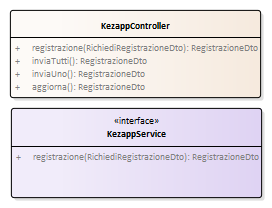
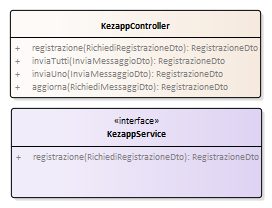
Aggiornato UML

Changed region(s): [[0.2353, 0.2596, 0.8529, 0.4615]]

diff --git a/uml/EARoot/EA2/EA13.htm b/uml/EARoot/EA2/EA13.htm
@@ -151,7 +151,26 @@ function nameClassifier(name, separator)
 			<tr>
 				<td width="100%" class="TableRow">
 					<i>Public</i><br />
-					<strong>inviaTutti</strong>():<a href="../EA1/EA7.htm">RegistrazioneDto</a>
+					<strong>inviaTutti</strong>(					<a href="#" onclick="parent.toggleData('param{2BB40957-E321-4f37-BE61-5E2BA5E4FF3D}')" style="text-decoration: none; color: #000000;"><img src="../../images/plus03.gif" align="absmiddle" id="param{2BB40957-E321-4f37-BE61-5E2BA5E4FF3D}" border="0" />dto: InviaMessaggioDto</a>, 
+					<table border="0" cellspacing="0" cellpadding="0" class="Table" style="padding: 4px 18px;">
+						<tr id="param{2BB40957-E321-4f37-BE61-5E2BA5E4FF3D}00" style="display: none;">
+							<td width="50"><strong>Default:</strong></td>
+							<td></td>
+						</tr>
+						<tr id="param{2BB40957-E321-4f37-BE61-5E2BA5E4FF3D}01" style="display: none;">
+							<td width="50"><strong>Kind:</strong></td>
+							<td>in</td>
+						</tr>
+						<tr id="param{2BB40957-E321-4f37-BE61-5E2BA5E4FF3D}02" style="display: none;">
+							<td width="50"><strong>Stereotype: </strong></td>
+							<td></td>
+						</tr>
+						<tr id="param{2BB40957-E321-4f37-BE61-5E2BA5E4FF3D}03" style="display: none;">
+							<td width="50"></td>
+							<td></td>
+						</tr>
+					</table>
+):<a href="../EA1/EA7.htm">RegistrazioneDto</a>
 				</td>
 			</tr>
 			<tr>
@@ -175,7 +194,26 @@ function nameClassifier(name, separator)
 			<tr>
 				<td width="100%" class="TableRow">
 					<i>Public</i><br />
-					<strong>inviaUno</strong>():<a href="../EA1/EA7.htm">RegistrazioneDto</a>
+					<strong>inviaUno</strong>(					<a href="#" onclick="parent.toggleData('param{B04655F5-E1A8-45ac-B7CD-207F6E36C854}')" style="text-decoration: none; color: #000000;"><img src="../../images/plus03.gif" align="absmiddle" id="param{B04655F5-E1A8-45ac-B7CD-207F6E36C854}" border="0" />dto: InviaMessaggioDto</a>, 
+					<table border="0" cellspacing="0" cellpadding="0" class="Table" style="padding: 4px 18px;">
+						<tr id="param{B04655F5-E1A8-45ac-B7CD-207F6E36C854}00" style="display: none;">
+							<td width="50"><strong>Default:</strong></td>
+							<td></td>
+						</tr>
+						<tr id="param{B04655F5-E1A8-45ac-B7CD-207F6E36C854}01" style="display: none;">
+							<td width="50"><strong>Kind:</strong></td>
+							<td>in</td>
+						</tr>
+						<tr id="param{B04655F5-E1A8-45ac-B7CD-207F6E36C854}02" style="display: none;">
+							<td width="50"><strong>Stereotype: </strong></td>
+							<td></td>
+						</tr>
+						<tr id="param{B04655F5-E1A8-45ac-B7CD-207F6E36C854}03" style="display: none;">
+							<td width="50"></td>
+							<td></td>
+						</tr>
+					</table>
+):<a href="../EA1/EA7.htm">RegistrazioneDto</a>
 				</td>
 			</tr>
 			<tr>
@@ -199,7 +237,26 @@ function nameClassifier(name, separator)
 			<tr>
 				<td width="100%" class="TableRow">
 					<i>Public</i><br />
-					<strong>aggiorna</strong>():<a href="../EA1/EA7.htm">RegistrazioneDto</a>
+					<strong>aggiorna</strong>(					<a href="#" onclick="parent.toggleData('param{FCF76906-1F9B-4acf-9116-5C2490E28EA8}')" style="text-decoration: none; color: #000000;"><img src="../../images/plus03.gif" align="absmiddle" id="param{FCF76906-1F9B-4acf-9116-5C2490E28EA8}" border="0" />dto: RichiediMessaggiDto</a>, 
+					<table border="0" cellspacing="0" cellpadding="0" class="Table" style="padding: 4px 18px;">
+						<tr id="param{FCF76906-1F9B-4acf-9116-5C2490E28EA8}00" style="display: none;">
+							<td width="50"><strong>Default:</strong></td>
+							<td></td>
+						</tr>
+						<tr id="param{FCF76906-1F9B-4acf-9116-5C2490E28EA8}01" style="display: none;">
+							<td width="50"><strong>Kind:</strong></td>
+							<td>in</td>
+						</tr>
+						<tr id="param{FCF76906-1F9B-4acf-9116-5C2490E28EA8}02" style="display: none;">
+							<td width="50"><strong>Stereotype: </strong></td>
+							<td></td>
+						</tr>
+						<tr id="param{FCF76906-1F9B-4acf-9116-5C2490E28EA8}03" style="display: none;">
+							<td width="50"></td>
+							<td></td>
+						</tr>
+					</table>
+):<a href="../EA1/EA7.htm">RegistrazioneDto</a>
 				</td>
 			</tr>
 			<tr>
